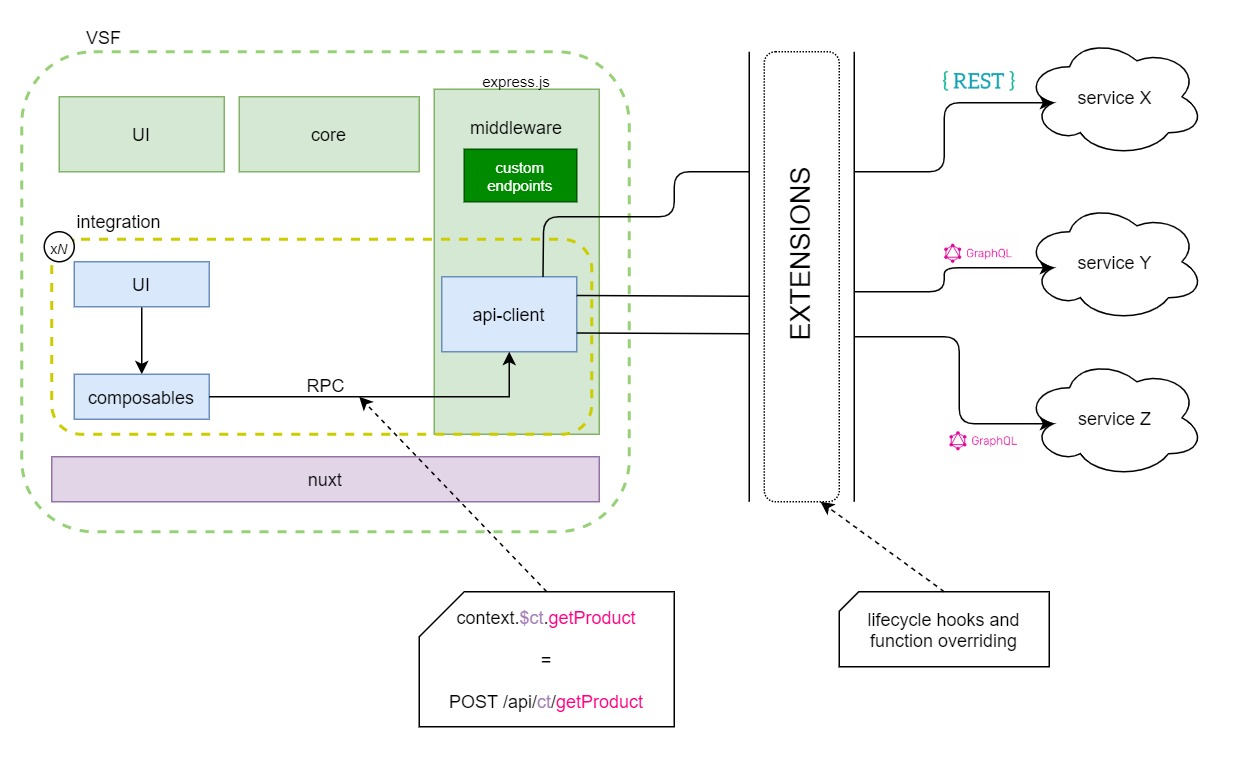
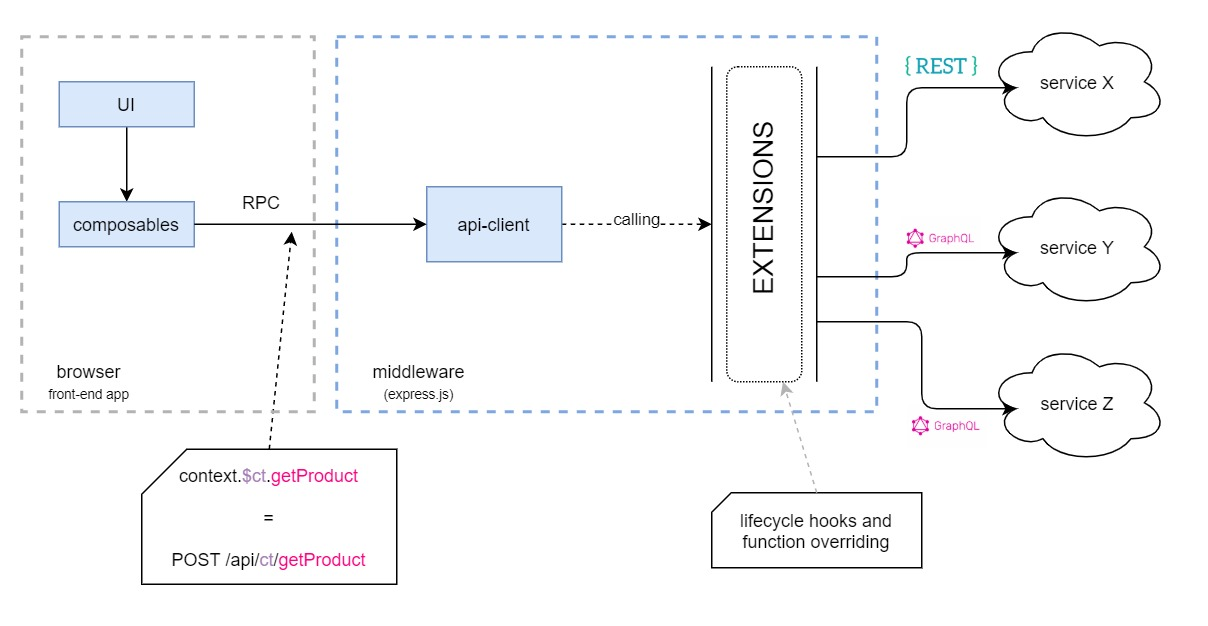
diagrams

diff --git a/packages/core/docs/advanced/server-middleware.md b/packages/core/docs/advanced/server-middleware.md
@@ -61,6 +61,10 @@ module.exports = {
 
 ## Extending Integrations
 
+<center>
+  <img src="../images/middleware-extensions.jpg" alt="Middleware Extensions" />
+</center>
+
 Middleware allows you to inject into the lifecycle of the entire network flow, starting with configuring a connection and ending with a final response. To use those things, we created an extension feature.
 
 You can define as many extensions as you want. Remember they are always correlated with a specyfic API-client (integration). How they look like? Each extension has the followin structure:
